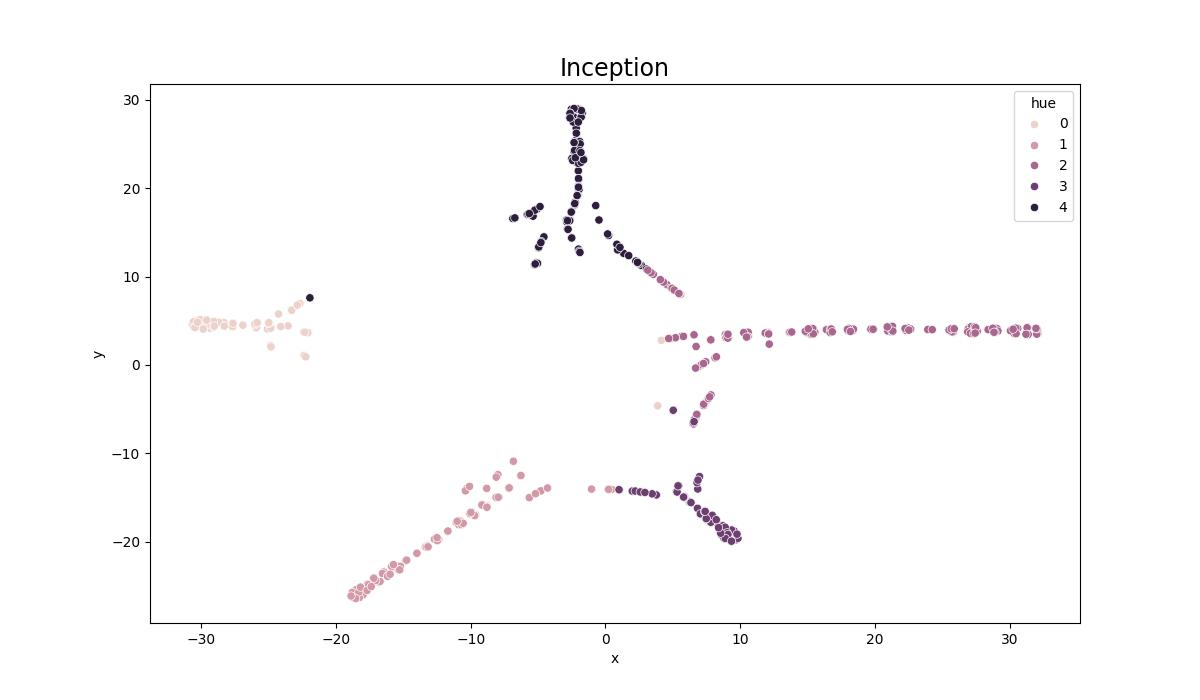
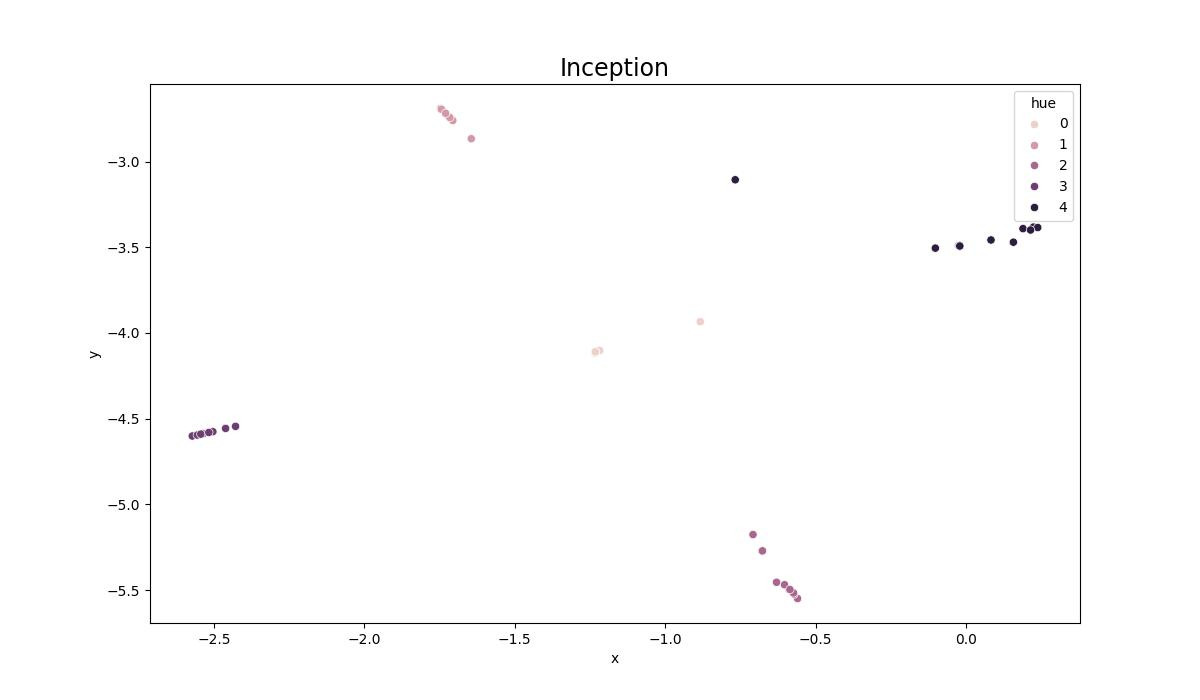
add gpt4all documentation into the readme

diff --git a/README.md b/README.md
@@ -23,6 +23,9 @@
 - TSNE 
     - [JoshStamer](https://www.youtube.com/watch?v=NEaUSP4YerM) 
     - [documentation](https://scikit-learn.org/stable/modules/generated/sklearn.manifold.TSNE.html#examples-using-sklearn-manifold-tsne)
+- GPT4ALL
+    - [openai-python](https://github.com/openai/openai-python)
+    - [documentation](https://docs.gpt4all.io/index.html)
 
 ## Results
 The following are bar graphs, kernel density estimates, LDA topic models, and tsne; from Inception. The VADER images reflect the VADER score, a post sentiment rating score from -1 to 1. Negative one being perceived as a negative / bad and positive one being associated with a good review. Any score between -.05 and .05 was placed in the neutral category. The topic models returned a list of popular words for each topic. Local LLM (Chatgpt) differentiated the categories between movie topics. 
